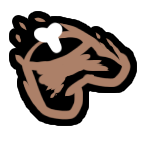
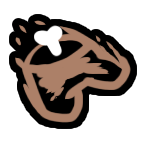
Adjust Colors

Changed region(s): [[0.0556, 0.0556, 0.9722, 0.9167]]

diff --git a/TownOfUs/TownOfUsColors.cs b/TownOfUs/TownOfUsColors.cs
@@ -52,7 +52,7 @@ public static class TownOfUsColors
     public static Color Pestilence => new(0.3f, 0.3f, 0.3f, 1f);
     public static Color Werewolf => new(0.66f, 0.4f, 0.16f, 1f);
     public static Color Doomsayer => new(0f, 1f, 0.5f, 1f);
-    public static Color Vampire => new(0.15f, 0.15f, 0.15f, 1f);
+    public static Color Vampire => new(0.64f, 0.16f, 0.16f, 1f);
     public static Color SoulCollector => new(0.6f, 1f, 0.8f, 1f);
     public static Color GuardianAngel => new(0.7f, 1f, 1f, 1f);
     public static Color Phantom => new(0.4f, 0.16f, 0.38f, 1f);
@@ -86,5 +86,6 @@ public static class TownOfUsColors
     public static Color Immovable => new(0.9f, 0.9f, 0.8f, 1f);
     public static Color Rotting => new(0.67f, 0.5f, 0.41f, 1f);
     public static Color Noisemaker => new(0.91f, 0.41f, 0.62f, 1f);
+    public static Color Scientist => new(0f, 0.78f, 0.41f, 1f);
 
 }
